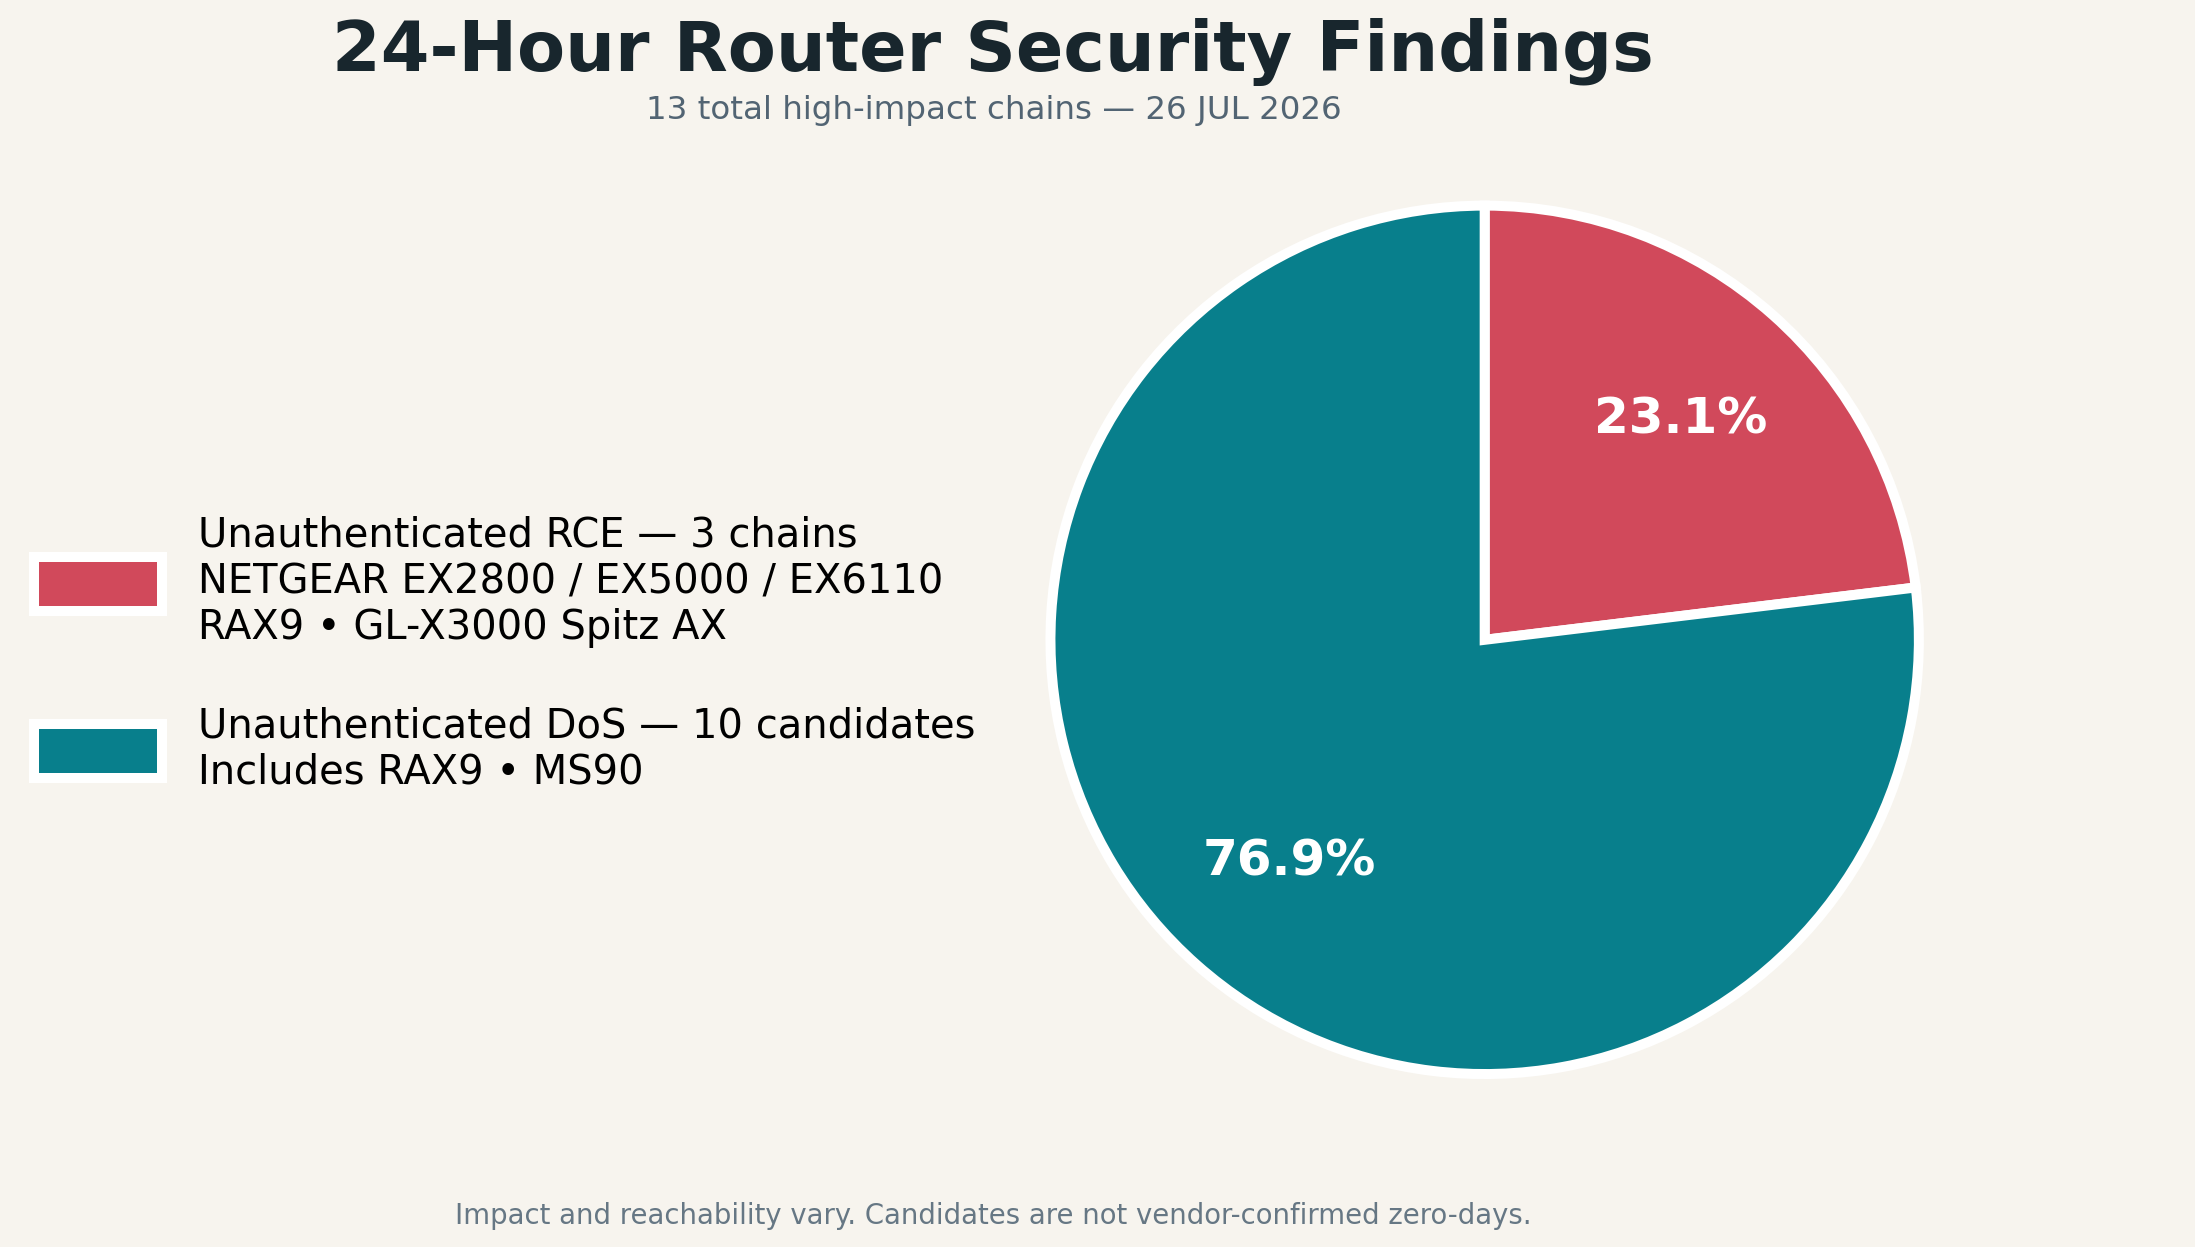
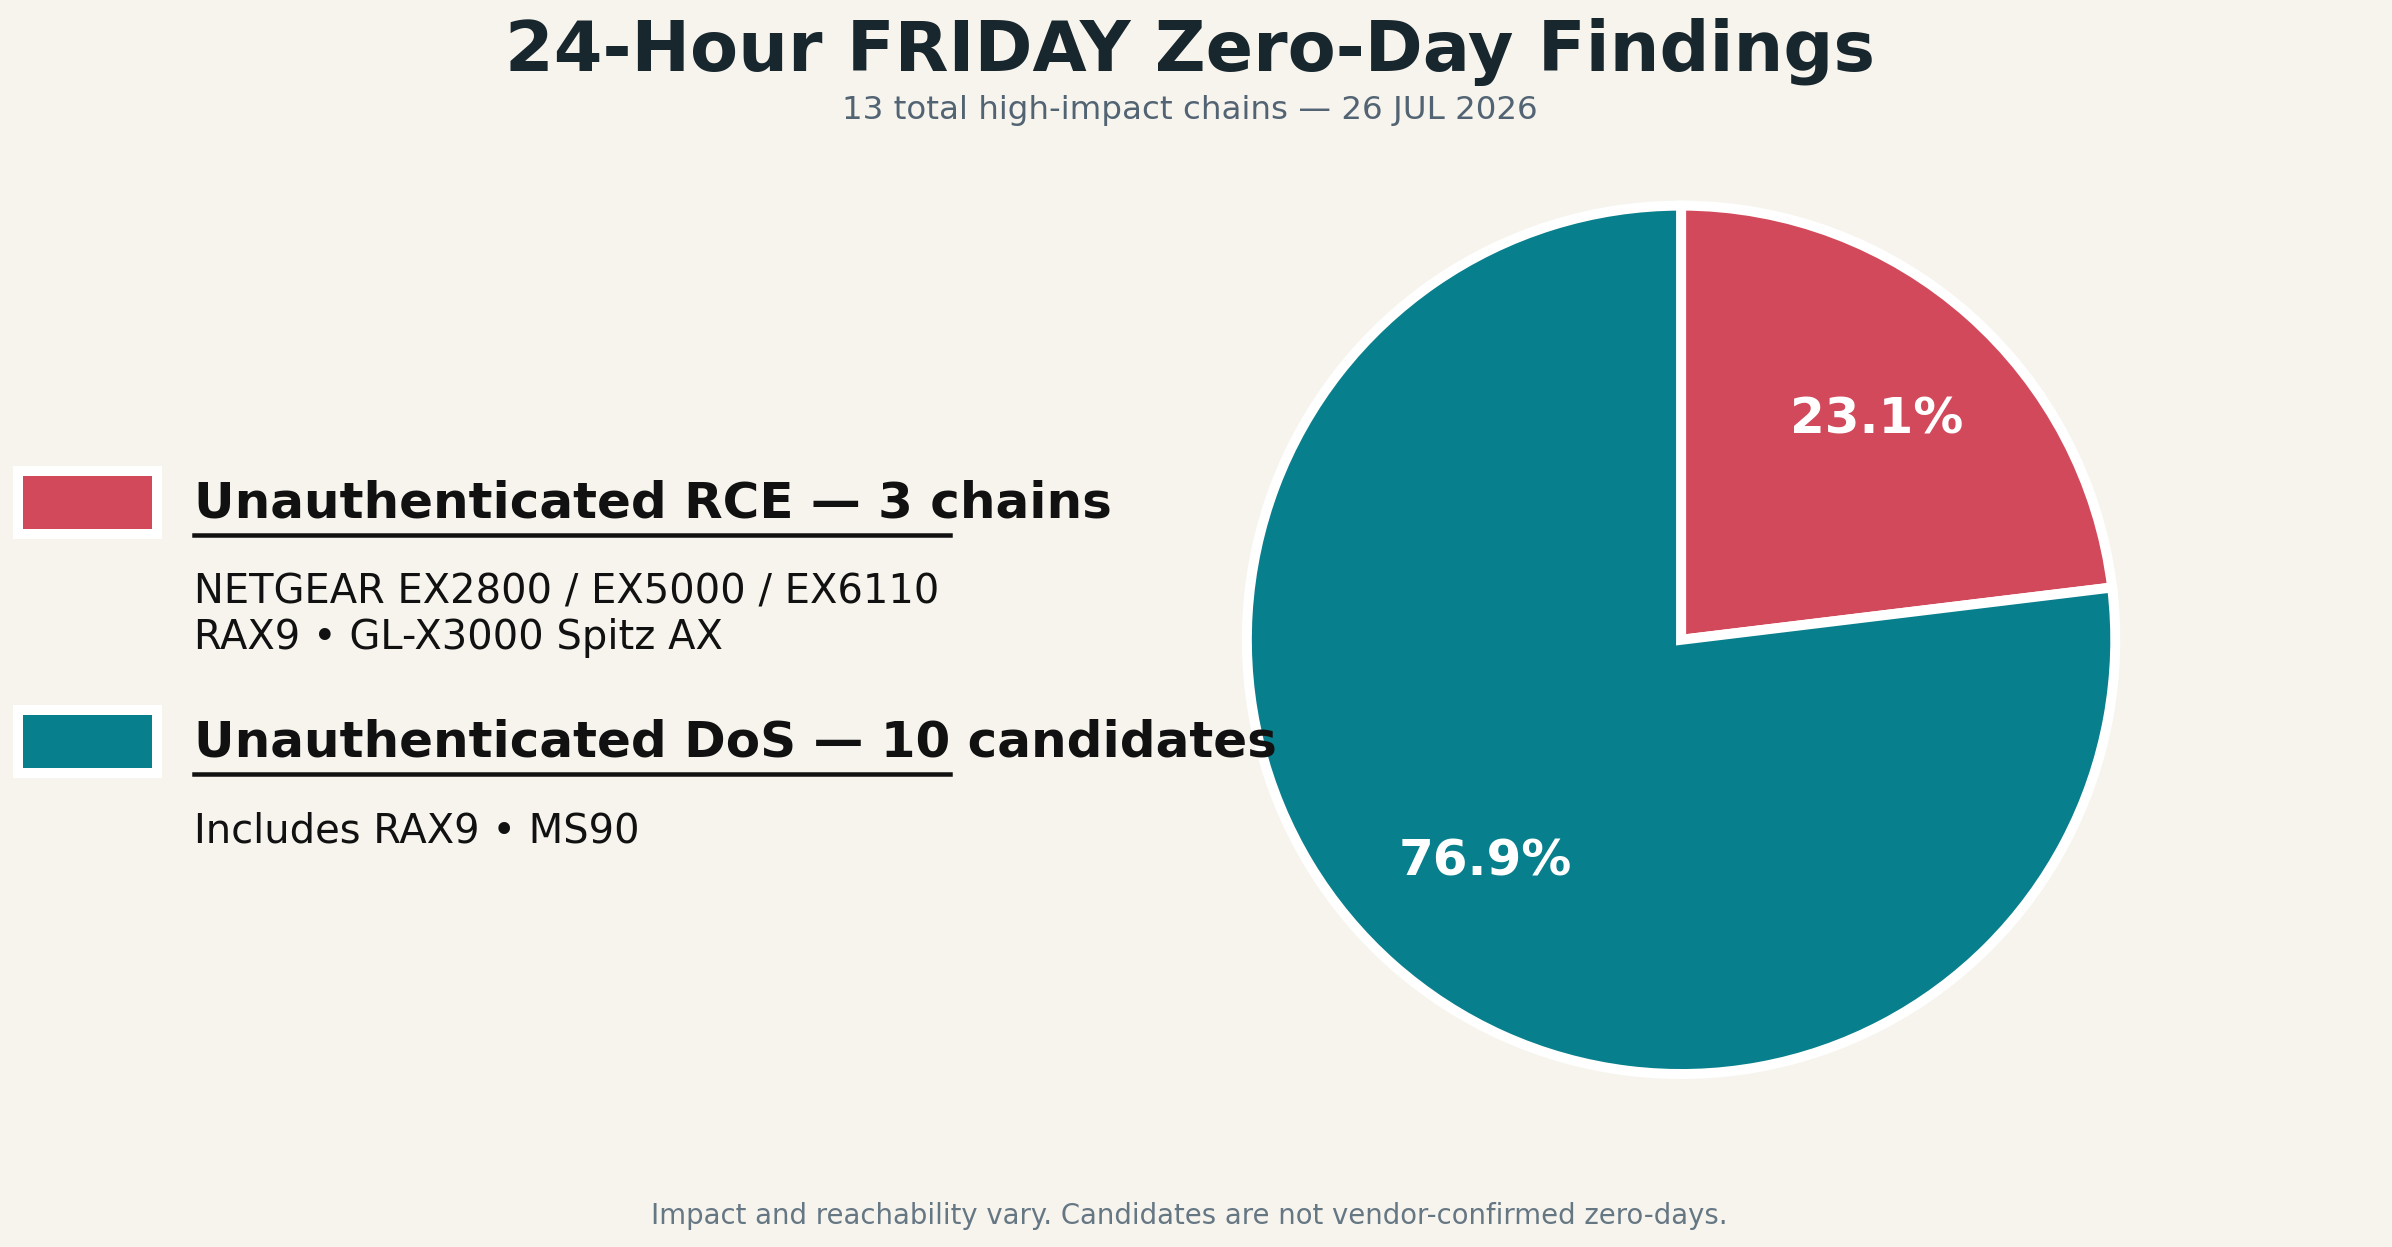
Restyle chart key and update FRIDAY title

diff --git a/scripts/build_24_hour_findings_pie.py b/scripts/build_24_hour_findings_pie.py
@@ -3,6 +3,8 @@
 from pathlib import Path
 
 import matplotlib.pyplot as plt
+from matplotlib.lines import Line2D
+from matplotlib.patches import Rectangle
 
 
 ROOT = Path(__file__).resolve().parents[1]
@@ -32,31 +34,65 @@ def main() -> None:
         percentage.set_fontsize(20)
         percentage.set_fontweight("bold")
 
-    fig.legend(
-        wedges,
-        [
-            (
-                f"{labels[0]} — {counts[0]} chains\n"
-                "NETGEAR EX2800 / EX5000 / EX6110\n"
-                "RAX9 • GL-X3000 Spitz AX"
-            ),
-            (
-                f"{labels[1]} — {counts[1]} candidates\n"
-                "Includes RAX9 • MS90"
-            ),
-        ],
-        loc="center left",
-        bbox_to_anchor=(0.105, 0.47),
-        frameon=False,
-        fontsize=16,
-        ncol=1,
-        labelspacing=1.45,
-        handlelength=3.2,
-        handleheight=1.7,
-        handletextpad=0.9,
-    )
+    key_x = 0.105
+    heading_size = 20
+    detail_size = 16
+    for color, heading_y, heading, details in (
+        (
+            colors[0],
+            0.59,
+            f"{labels[0]} — {counts[0]} chains",
+            "NETGEAR EX2800 / EX5000 / EX6110\nRAX9 • GL-X3000 Spitz AX",
+        ),
+        (
+            colors[1],
+            0.40,
+            f"{labels[1]} — {counts[1]} candidates",
+            "Includes RAX9 • MS90",
+        ),
+    ):
+        fig.add_artist(
+            Rectangle(
+                (0.035, heading_y - 0.025),
+                0.055,
+                0.05,
+                transform=fig.transFigure,
+                facecolor=color,
+                edgecolor="white",
+                linewidth=4,
+            )
+        )
+        fig.text(
+            key_x,
+            heading_y,
+            heading,
+            ha="left",
+            va="center",
+            fontsize=heading_size,
+            fontweight="bold",
+            color="#111111",
+        )
+        fig.add_artist(
+            Line2D(
+                [key_x, key_x + 0.30],
+                [heading_y - 0.026, heading_y - 0.026],
+                transform=fig.transFigure,
+                color="#111111",
+                linewidth=1.8,
+            )
+        )
+        fig.text(
+            key_x,
+            heading_y - 0.055,
+            details,
+            ha="left",
+            va="top",
+            fontsize=detail_size,
+            color="#111111",
+            linespacing=1.18,
+        )
     fig.suptitle(
-        "24-Hour Router Security Findings",
+        "24-Hour FRIDAY Zero-Day Findings",
         fontsize=28,
         fontweight="bold",
         color="#18262d",
